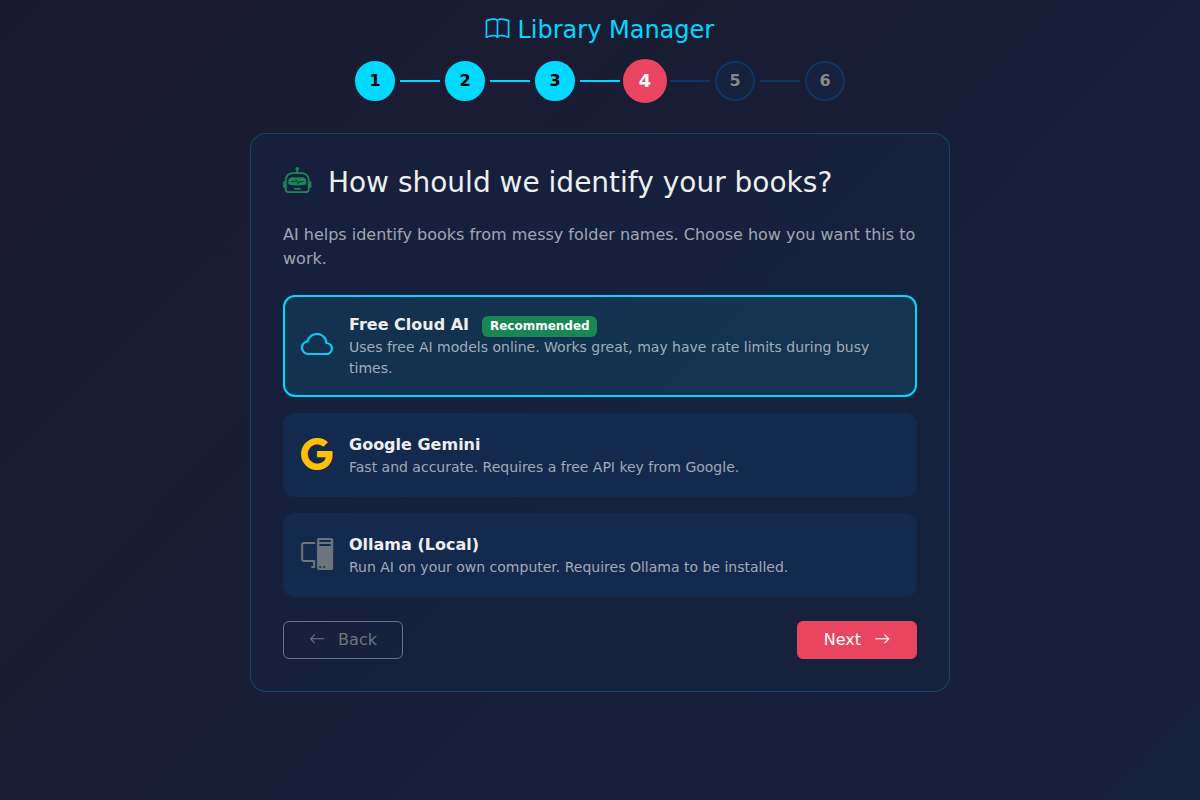
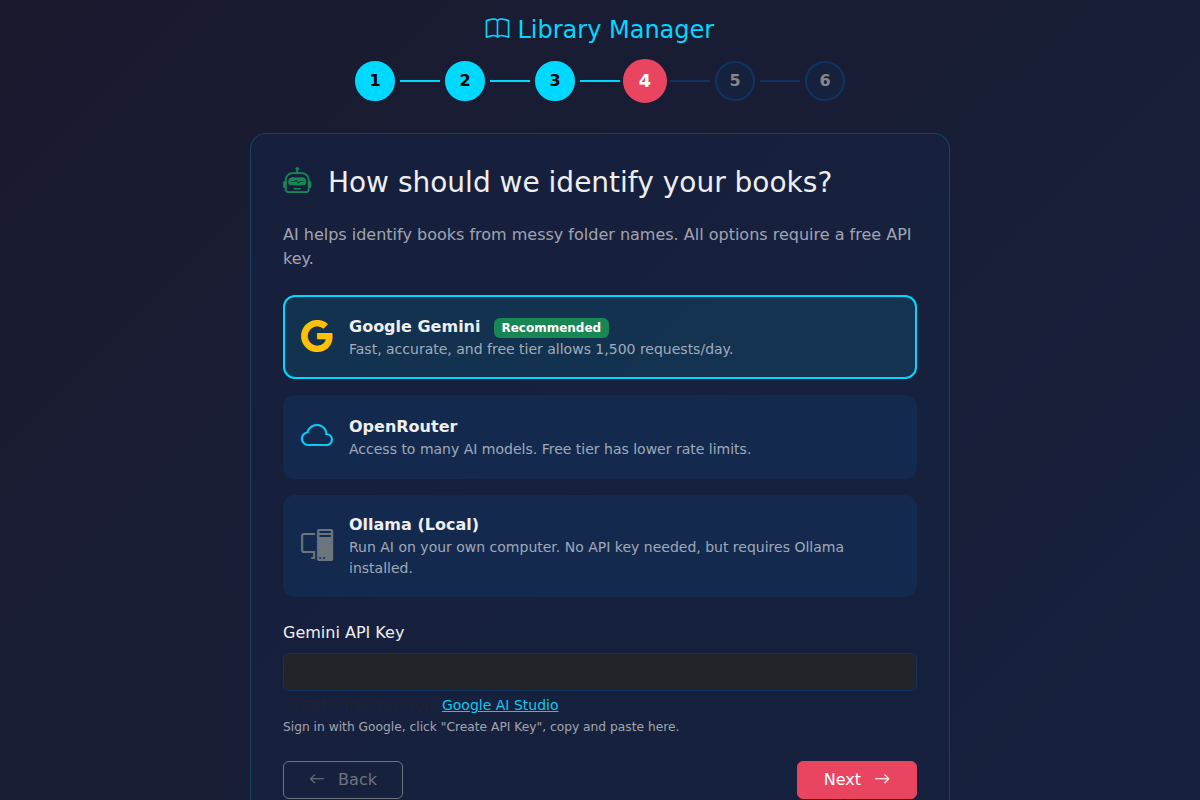
Setup wizard: Make Gemini default, rename Free Cloud AI to OpenRouter
- Gemini is now the recommended AI provider (1,500 req/day free tier)
- OpenRouter renamed from misleading "Free Cloud AI"
- All providers now show API key input when selected
- Added helpful links to get API keys for each provider
- Updated screenshots for step 4 (AI) and step 6 (Review)
- Added ?force=1 param to /setup for screenshot testing

diff --git a/templates/setup_wizard.html b/templates/setup_wizard.html
@@ -342,31 +342,31 @@
                 <h3 class="mb-4"><i class="bi bi-robot text-success me-2"></i> How should we identify your books?</h3>
 
                 <p class="text-muted mb-4">
-                    AI helps identify books from messy folder names. Choose how you want this to work.
+                    AI helps identify books from messy folder names. All options require a free API key.
                 </p>
 
                 <div class="row g-3 mb-4">
                     <div class="col-12">
-                        <label class="option-card d-block selected" onclick="selectProvider('openrouter')">
-                            <input type="radio" name="ai_provider" value="openrouter" checked>
+                        <label class="option-card d-block selected" onclick="selectProvider('gemini')">
+                            <input type="radio" name="ai_provider" value="gemini" checked>
                             <div class="d-flex align-items-center">
-                                <i class="bi bi-cloud fs-2 text-info me-3"></i>
+                                <i class="bi bi-google fs-2 text-warning me-3"></i>
                                 <div class="flex-grow-1">
-                                    <strong>Free Cloud AI</strong>
+                                    <strong>Google Gemini</strong>
                                     <span class="badge bg-success ms-2">Recommended</span>
-                                    <p class="text-muted mb-0 small">Uses free AI models online. Works great, may have rate limits during busy times.</p>
+                                    <p class="text-muted mb-0 small">Fast, accurate, and free tier allows 1,500 requests/day.</p>
                                 </div>
                             </div>
                         </label>
                     </div>
                     <div class="col-12">
-                        <label class="option-card d-block" onclick="selectProvider('gemini')">
-                            <input type="radio" name="ai_provider" value="gemini">
+                        <label class="option-card d-block" onclick="selectProvider('openrouter')">
+                            <input type="radio" name="ai_provider" value="openrouter">
                             <div class="d-flex align-items-center">
-                                <i class="bi bi-google fs-2 text-warning me-3"></i>
+                                <i class="bi bi-cloud fs-2 text-info me-3"></i>
                                 <div class="flex-grow-1">
-                                    <strong>Google Gemini</strong>
-                                    <p class="text-muted mb-0 small">Fast and accurate. Requires a free API key from Google.</p>
+                                    <strong>OpenRouter</strong>
+                                    <p class="text-muted mb-0 small">Access to many AI models. Free tier has lower rate limits.</p>
                                 </div>
                             </div>
                         </label>
@@ -378,30 +378,43 @@
                                 <i class="bi bi-pc-display fs-2 text-secondary me-3"></i>
                                 <div class="flex-grow-1">
                                     <strong>Ollama (Local)</strong>
-                                    <p class="text-muted mb-0 small">Run AI on your own computer. Requires Ollama to be installed.</p>
+                                    <p class="text-muted mb-0 small">Run AI on your own computer. No API key needed, but requires Ollama installed.</p>
                                 </div>
                             </div>
                         </label>
                     </div>
                 </div>
 
-                <!-- API Key Input (shown for gemini) -->
-                <div id="api-key-section" class="d-none mb-4">
-                    <label class="form-label" id="api-key-label">API Key</label>
-                    <input type="password" class="form-control bg-dark text-light" id="api-key-input"
-                           placeholder="Enter your API key">
-                    <div class="form-text" id="api-key-help">
-                        Get a free key from <a href="https://aistudio.google.com/apikey" target="_blank" class="text-info">Google AI Studio</a>
+                <!-- Gemini API Key Input -->
+                <div id="gemini-section" class="mb-4">
+                    <label class="form-label">Gemini API Key</label>
+                    <input type="password" class="form-control bg-dark text-light" id="gemini-api-key-input"
+                           placeholder="Enter your Gemini API key">
+                    <div class="form-text">
+                        <i class="bi bi-info-circle"></i> Get a free key from <a href="https://aistudio.google.com/apikey" target="_blank" class="text-info">Google AI Studio</a>
+                        <br><small class="text-muted">Sign in with Google, click "Create API Key", copy and paste here.</small>
                     </div>
                 </div>
 
-                <!-- Ollama URL Input (shown for ollama) -->
+                <!-- OpenRouter API Key Input -->
+                <div id="openrouter-section" class="d-none mb-4">
+                    <label class="form-label">OpenRouter API Key</label>
+                    <input type="password" class="form-control bg-dark text-light" id="openrouter-api-key-input"
+                           placeholder="Enter your OpenRouter API key">
+                    <div class="form-text">
+                        <i class="bi bi-info-circle"></i> Get a free key from <a href="https://openrouter.ai/keys" target="_blank" class="text-info">OpenRouter</a>
+                        <br><small class="text-muted">Create account, go to Keys, click "Create Key", copy and paste here.</small>
+                    </div>
+                </div>
+
+                <!-- Ollama URL Input -->
                 <div id="ollama-section" class="d-none mb-4">
                     <label class="form-label">Ollama URL</label>
                     <input type="text" class="form-control bg-dark text-light" id="ollama-url-input"
                            value="http://localhost:11434" placeholder="http://localhost:11434">
                     <div class="form-text">
-                        Default is http://localhost:11434. Change if Ollama runs on a different machine.
+                        <i class="bi bi-info-circle"></i> Default is http://localhost:11434. Change if Ollama runs on a different machine.
+                        <br><small class="text-muted">Download Ollama from <a href="https://ollama.ai" target="_blank" class="text-info">ollama.ai</a></small>
                     </div>
                 </div>
 
@@ -544,7 +557,7 @@
     let currentStep = 1;
     let setupData = {
         library_paths: [],
-        ai_provider: 'openrouter',
+        ai_provider: 'gemini',
         media_type: 'audiobooks',
         ebook_management: false,
         auto_fix: false,
@@ -716,17 +729,19 @@
         });
         event.currentTarget.classList.add('selected');
 
-        // Show/hide API key section
-        const apiKeySection = document.getElementById('api-key-section');
+        // Show/hide the right input section
+        const geminiSection = document.getElementById('gemini-section');
+        const openrouterSection = document.getElementById('openrouter-section');
         const ollamaSection = document.getElementById('ollama-section');
 
-        apiKeySection.classList.add('d-none');
+        geminiSection.classList.add('d-none');
+        openrouterSection.classList.add('d-none');
         ollamaSection.classList.add('d-none');
 
         if (provider === 'gemini') {
-            apiKeySection.classList.remove('d-none');
-            document.getElementById('api-key-label').textContent = 'Gemini API Key';
-            document.getElementById('api-key-help').innerHTML = 'Get a free key from <a href="https://aistudio.google.com/apikey" target="_blank" class="text-info">Google AI Studio</a>';
+            geminiSection.classList.remove('d-none');
+        } else if (provider === 'openrouter') {
+            openrouterSection.classList.remove('d-none');
         } else if (provider === 'ollama') {
             ollamaSection.classList.remove('d-none');
         }
@@ -752,8 +767,8 @@
 
         // AI Provider
         const providerLabels = {
-            'openrouter': 'Free Cloud AI',
             'gemini': 'Google Gemini',
+            'openrouter': 'OpenRouter',
             'ollama': 'Ollama (Local)'
         };
         document.getElementById('summary-ai').textContent = providerLabels[setupData.ai_provider] || 'Not set';
@@ -779,7 +794,9 @@
         setupData.trust_the_process = document.getElementById('trust-toggle').checked;
 
         if (setupData.ai_provider === 'gemini') {
-            setupData.gemini_api_key = document.getElementById('api-key-input').value.trim();
+            setupData.gemini_api_key = document.getElementById('gemini-api-key-input').value.trim();
+        } else if (setupData.ai_provider === 'openrouter') {
+            setupData.openrouter_api_key = document.getElementById('openrouter-api-key-input').value.trim();
         } else if (setupData.ai_provider === 'ollama') {
             setupData.ollama_url = document.getElementById('ollama-url-input').value.trim();
         }

diff --git a/app.py b/app.py
@@ -975,7 +975,7 @@ SECRETS_PATH = DATA_DIR / 'secrets.json'
 
 DEFAULT_CONFIG = {
     "library_paths": [],  # Empty by default - user configures via Settings
-    "ai_provider": "openrouter",  # "openrouter", "gemini", or "ollama"
+    "ai_provider": "gemini",  # "gemini", "openrouter", or "ollama"
     "openrouter_model": "google/gemma-3n-e4b-it:free",
     "gemini_model": "gemini-2.0-flash",
     "ollama_url": "http://localhost:11434",  # Ollama server URL
@@ -7986,8 +7986,8 @@ def dashboard():
 def setup_wizard():
     """First-run setup wizard for new users."""
     config = load_config()
-    # If already configured, redirect to library
-    if not needs_setup(config):
+    # If already configured, redirect to library (unless force=1 for screenshots/testing)
+    if not needs_setup(config) and request.args.get('force') != '1':
         return redirect('/library')
     return render_template('setup_wizard.html', config=config)
 
